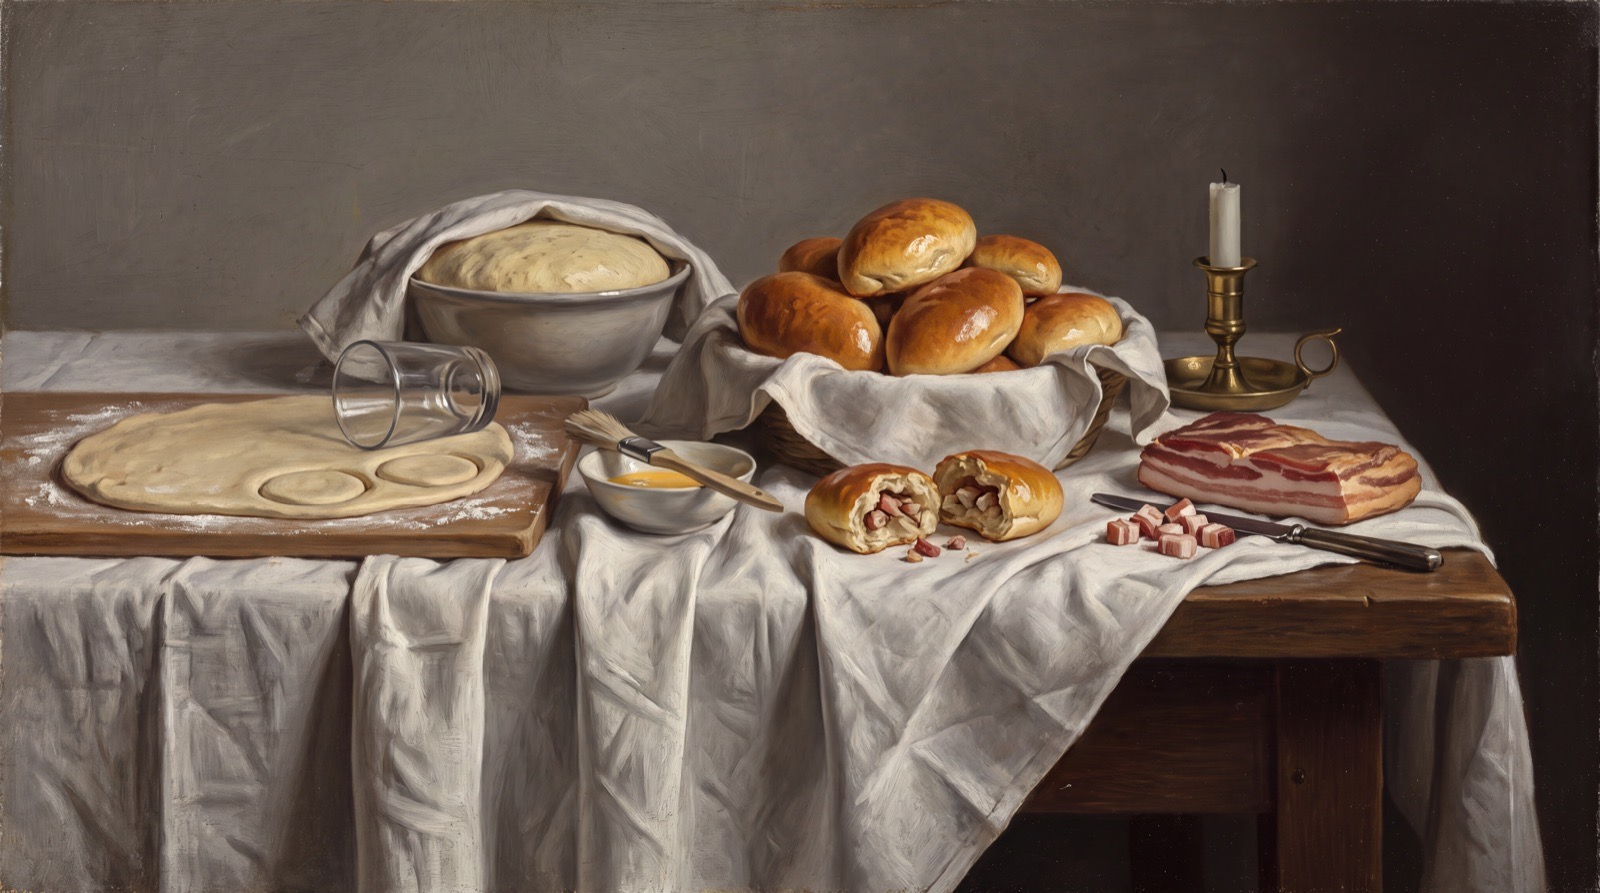
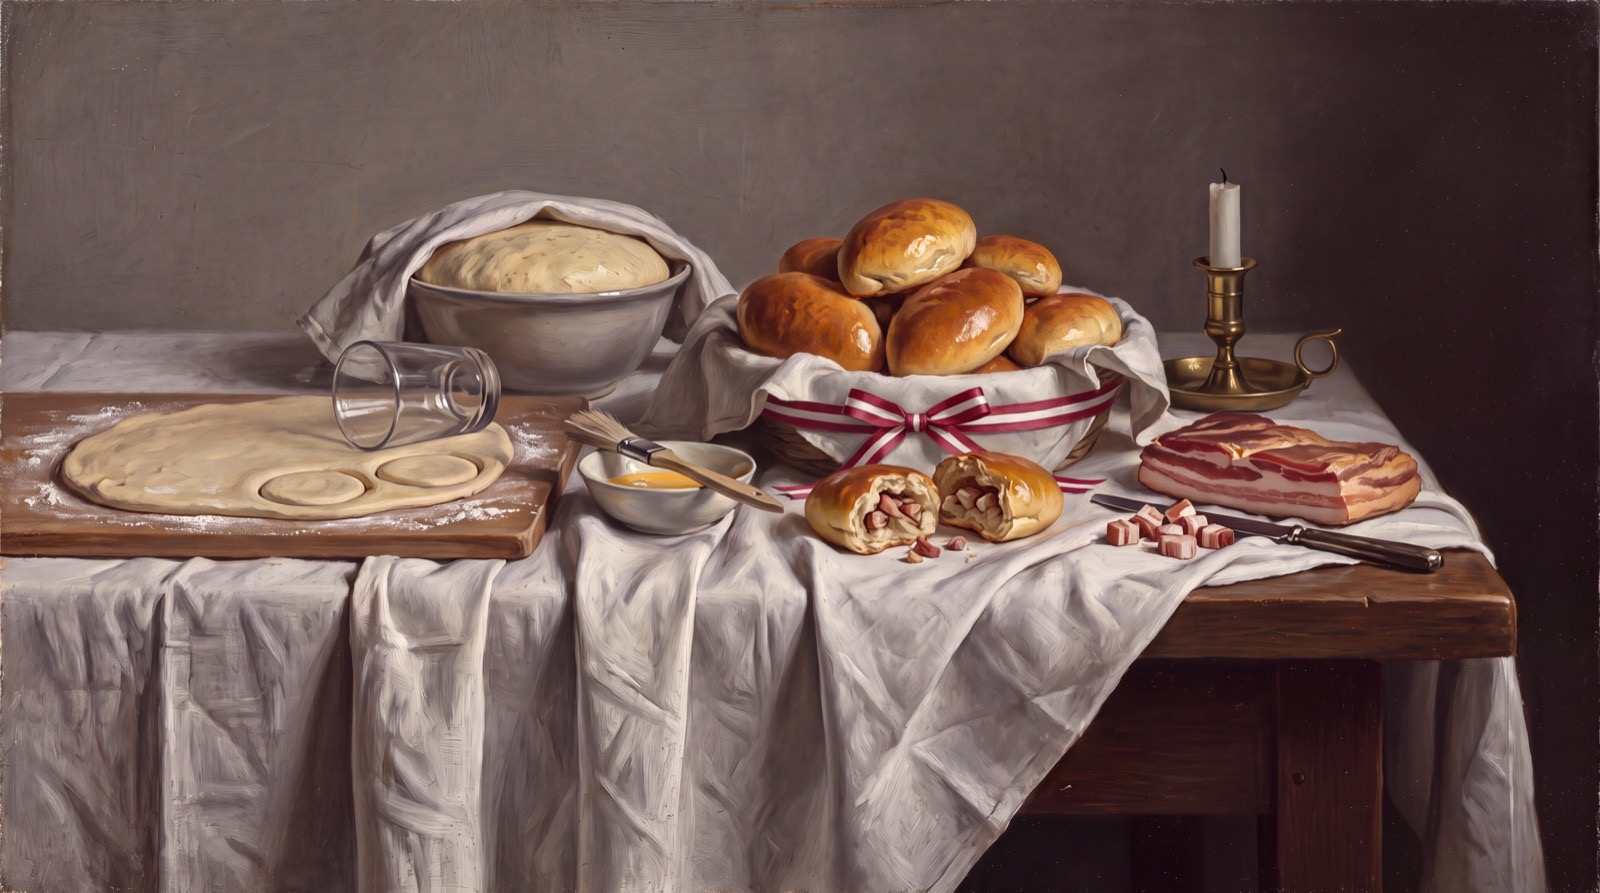
November: revised painting (red-white-red ribbon bow around the pīrāgi basket)

diff --git a/public/sv/novembris/index.html b/public/sv/novembris/index.html
@@ -13,7 +13,7 @@
 <meta property="og:description" content="Stockholmaren Laila Strunkes mamma var en enastående kokerska. Kanske är det från henne Laila ärvt matlagningsgenen – men inte recepten. Mamman kunde sina…">
 <meta property="og:type" content="article">
 <meta property="og:url" content="https://zlk2027.latviesi.se/sv/novembris/">
-<meta property="og:image" content="https://zlk2027.latviesi.se/img/novembris.jpg?v=6989021d">
+<meta property="og:image" content="https://zlk2027.latviesi.se/img/novembris.jpg?v=5df9871a">
 <meta name="theme-color" content="#fdfbf2">
 <link rel="icon" href="/favicon.svg" type="image/svg+xml">
 <link rel="preconnect" href="https://fonts.googleapis.com">
@@ -37,7 +37,7 @@
     <p class="year">2027</p>
     <p class="month">November</p>
   </header>
-  <figure class="visual"><img src="/img/novembris.jpg?v=6989021d" srcset="/img/novembris-800.jpg?v=6a857b41 800w, /img/novembris.jpg?v=6989021d 1600w" sizes="(min-width: 1200px) 1120px, 100vw" width="1600" height="893" alt="Stockholms speķa pīrāgi – lettiska baconpiroger" fetchpriority="high"></figure>
+  <figure class="visual"><img src="/img/novembris.jpg?v=5df9871a" srcset="/img/novembris-800.jpg?v=313edca0 800w, /img/novembris.jpg?v=5df9871a 1600w" sizes="(min-width: 1200px) 1120px, 100vw" width="1600" height="893" alt="Stockholms speķa pīrāgi – lettiska baconpiroger" fetchpriority="high"></figure>
   <section class="band">
     <div class="col col-1">
       <h1 class="recipe-title">Stockholms speķa pīrāgi&nbsp;– lettiska baconpiroger</h1>

diff --git a/public/en/novembris/index.html b/public/en/novembris/index.html
@@ -13,7 +13,7 @@
 <meta property="og:description" content="Stockholmer Laila Strunke's mother was an outstanding cook. Laila may well have inherited the cooking gene from her – but not the recipes. Her mother knew…">
 <meta property="og:type" content="article">
 <meta property="og:url" content="https://zlk2027.latviesi.se/en/novembris/">
-<meta property="og:image" content="https://zlk2027.latviesi.se/img/novembris.jpg?v=6989021d">
+<meta property="og:image" content="https://zlk2027.latviesi.se/img/novembris.jpg?v=5df9871a">
 <meta name="theme-color" content="#fdfbf2">
 <link rel="icon" href="/favicon.svg" type="image/svg+xml">
 <link rel="preconnect" href="https://fonts.googleapis.com">
@@ -37,7 +37,7 @@
     <p class="year">2027</p>
     <p class="month">November</p>
   </header>
-  <figure class="visual"><img src="/img/novembris.jpg?v=6989021d" srcset="/img/novembris-800.jpg?v=6a857b41 800w, /img/novembris.jpg?v=6989021d 1600w" sizes="(min-width: 1200px) 1120px, 100vw" width="1600" height="893" alt="Stockholm speķa pīrāgi – Latvian bacon buns" fetchpriority="high"></figure>
+  <figure class="visual"><img src="/img/novembris.jpg?v=5df9871a" srcset="/img/novembris-800.jpg?v=313edca0 800w, /img/novembris.jpg?v=5df9871a 1600w" sizes="(min-width: 1200px) 1120px, 100vw" width="1600" height="893" alt="Stockholm speķa pīrāgi – Latvian bacon buns" fetchpriority="high"></figure>
   <section class="band">
     <div class="col col-1">
       <h1 class="recipe-title">Stockholm speķa pīrāgi&nbsp;– Latvian bacon buns</h1>

diff --git a/public/novembris/index.html b/public/novembris/index.html
@@ -13,7 +13,7 @@
 <meta property="og:description" content="Stokholmietes Lailas Strunkes mamma bijusi izcila pavāre. Iespējams, Laila tieši no viņas mantojusi ēdiena gatavošanas gēnu – bet ne receptes. Mamma savas…">
 <meta property="og:type" content="article">
 <meta property="og:url" content="https://zlk2027.latviesi.se/novembris/">
-<meta property="og:image" content="https://zlk2027.latviesi.se/img/novembris.jpg?v=6989021d">
+<meta property="og:image" content="https://zlk2027.latviesi.se/img/novembris.jpg?v=5df9871a">
 <meta name="theme-color" content="#fdfbf2">
 <link rel="icon" href="/favicon.svg" type="image/svg+xml">
 <link rel="preconnect" href="https://fonts.googleapis.com">
@@ -37,7 +37,7 @@
     <p class="year">2027</p>
     <p class="month">Novembris</p>
   </header>
-  <figure class="visual"><img src="/img/novembris.jpg?v=6989021d" srcset="/img/novembris-800.jpg?v=6a857b41 800w, /img/novembris.jpg?v=6989021d 1600w" sizes="(min-width: 1200px) 1120px, 100vw" width="1600" height="893" alt="Stokholmas speķa pīrāgi" fetchpriority="high"></figure>
+  <figure class="visual"><img src="/img/novembris.jpg?v=5df9871a" srcset="/img/novembris-800.jpg?v=313edca0 800w, /img/novembris.jpg?v=5df9871a 1600w" sizes="(min-width: 1200px) 1120px, 100vw" width="1600" height="893" alt="Stokholmas speķa pīrāgi" fetchpriority="high"></figure>
   <section class="band">
     <div class="col col-1">
       <h1 class="recipe-title">Stokholmas speķa pīrāgi</h1>

diff --git a/public/sv/index.html b/public/sv/index.html
@@ -100,7 +100,7 @@
   <p class="credit">Sanita Heinberga, Järna</p>
 </a>
 <a class="card" href="/sv/novembris/">
-  <figure class="visual"><img src="/img/novembris.jpg?v=6989021d" srcset="/img/novembris-800.jpg?v=6a857b41 800w, /img/novembris.jpg?v=6989021d 1600w" sizes="(min-width: 1000px) 360px, (min-width: 560px) 50vw, 100vw" width="1600" height="893" alt="Stockholms speķa pīrāgi – lettiska baconpiroger" loading="lazy"></figure>
+  <figure class="visual"><img src="/img/novembris.jpg?v=5df9871a" srcset="/img/novembris-800.jpg?v=313edca0 800w, /img/novembris.jpg?v=5df9871a 1600w" sizes="(min-width: 1000px) 360px, (min-width: 560px) 50vw, 100vw" width="1600" height="893" alt="Stockholms speķa pīrāgi – lettiska baconpiroger" loading="lazy"></figure>
   <p class="month-line">November</p>
   <h2 class="recipe-title">Stockholms speķa pīrāgi&nbsp;– lettiska baconpiroger</h2>
   <p class="credit">Laila Strunke, Stockholm</p>

diff --git a/public/en/index.html b/public/en/index.html
@@ -100,7 +100,7 @@
   <p class="credit">Sanita Heinberga, Järna</p>
 </a>
 <a class="card" href="/en/novembris/">
-  <figure class="visual"><img src="/img/novembris.jpg?v=6989021d" srcset="/img/novembris-800.jpg?v=6a857b41 800w, /img/novembris.jpg?v=6989021d 1600w" sizes="(min-width: 1000px) 360px, (min-width: 560px) 50vw, 100vw" width="1600" height="893" alt="Stockholm speķa pīrāgi – Latvian bacon buns" loading="lazy"></figure>
+  <figure class="visual"><img src="/img/novembris.jpg?v=5df9871a" srcset="/img/novembris-800.jpg?v=313edca0 800w, /img/novembris.jpg?v=5df9871a 1600w" sizes="(min-width: 1000px) 360px, (min-width: 560px) 50vw, 100vw" width="1600" height="893" alt="Stockholm speķa pīrāgi – Latvian bacon buns" loading="lazy"></figure>
   <p class="month-line">November</p>
   <h2 class="recipe-title">Stockholm speķa pīrāgi&nbsp;– Latvian bacon buns</h2>
   <p class="credit">Laila Strunke, Stockholm</p>

diff --git a/public/index.html b/public/index.html
@@ -100,7 +100,7 @@
   <p class="credit">Sanita Heinberga, Jerna</p>
 </a>
 <a class="card" href="/novembris/">
-  <figure class="visual"><img src="/img/novembris.jpg?v=6989021d" srcset="/img/novembris-800.jpg?v=6a857b41 800w, /img/novembris.jpg?v=6989021d 1600w" sizes="(min-width: 1000px) 360px, (min-width: 560px) 50vw, 100vw" width="1600" height="893" alt="Stokholmas speķa pīrāgi" loading="lazy"></figure>
+  <figure class="visual"><img src="/img/novembris.jpg?v=5df9871a" srcset="/img/novembris-800.jpg?v=313edca0 800w, /img/novembris.jpg?v=5df9871a 1600w" sizes="(min-width: 1000px) 360px, (min-width: 560px) 50vw, 100vw" width="1600" height="893" alt="Stokholmas speķa pīrāgi" loading="lazy"></figure>
   <p class="month-line">Novembris</p>
   <h2 class="recipe-title">Stokholmas speķa pīrāgi</h2>
   <p class="credit">Laila Strunke, Stokholma</p>
